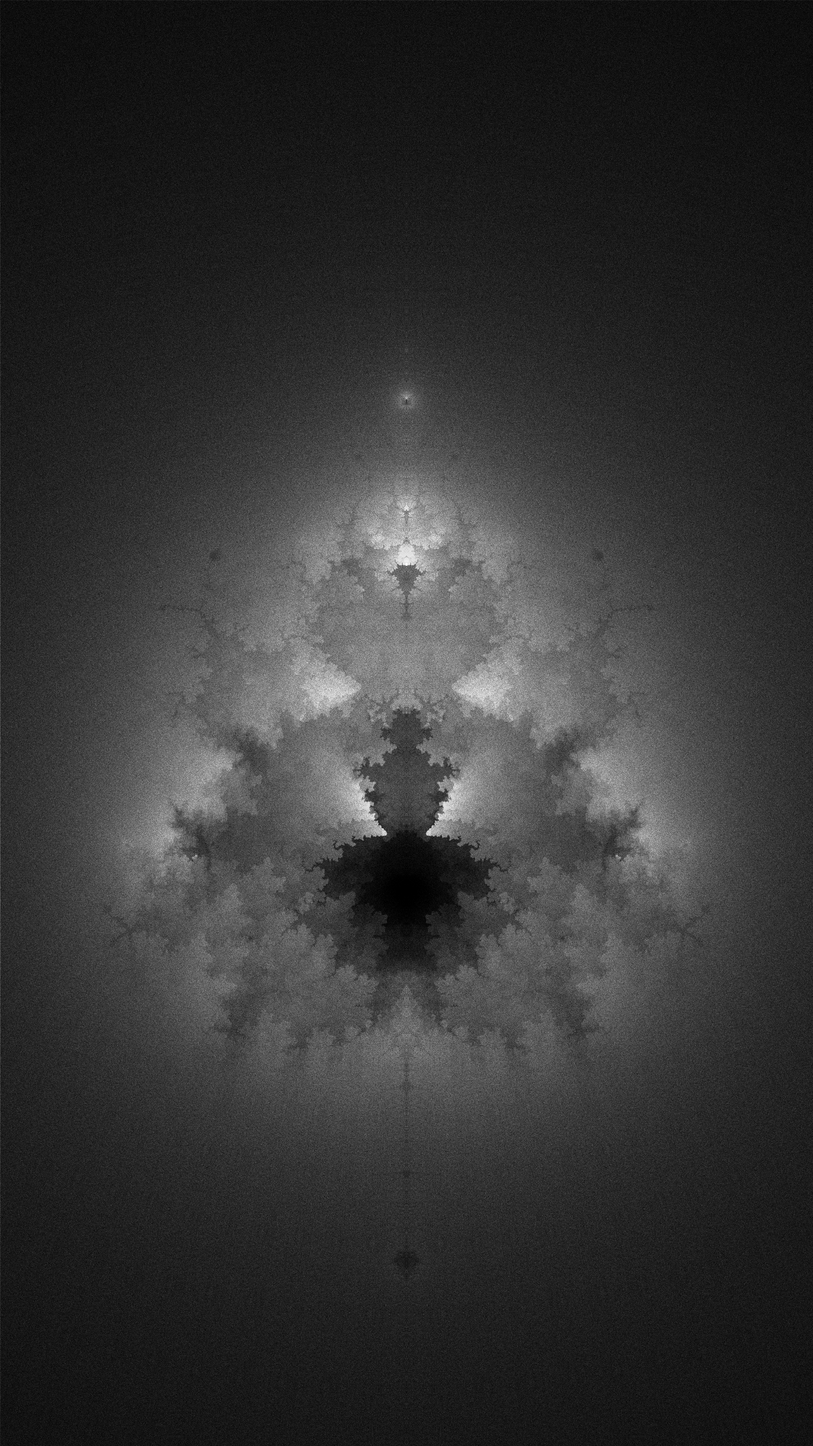
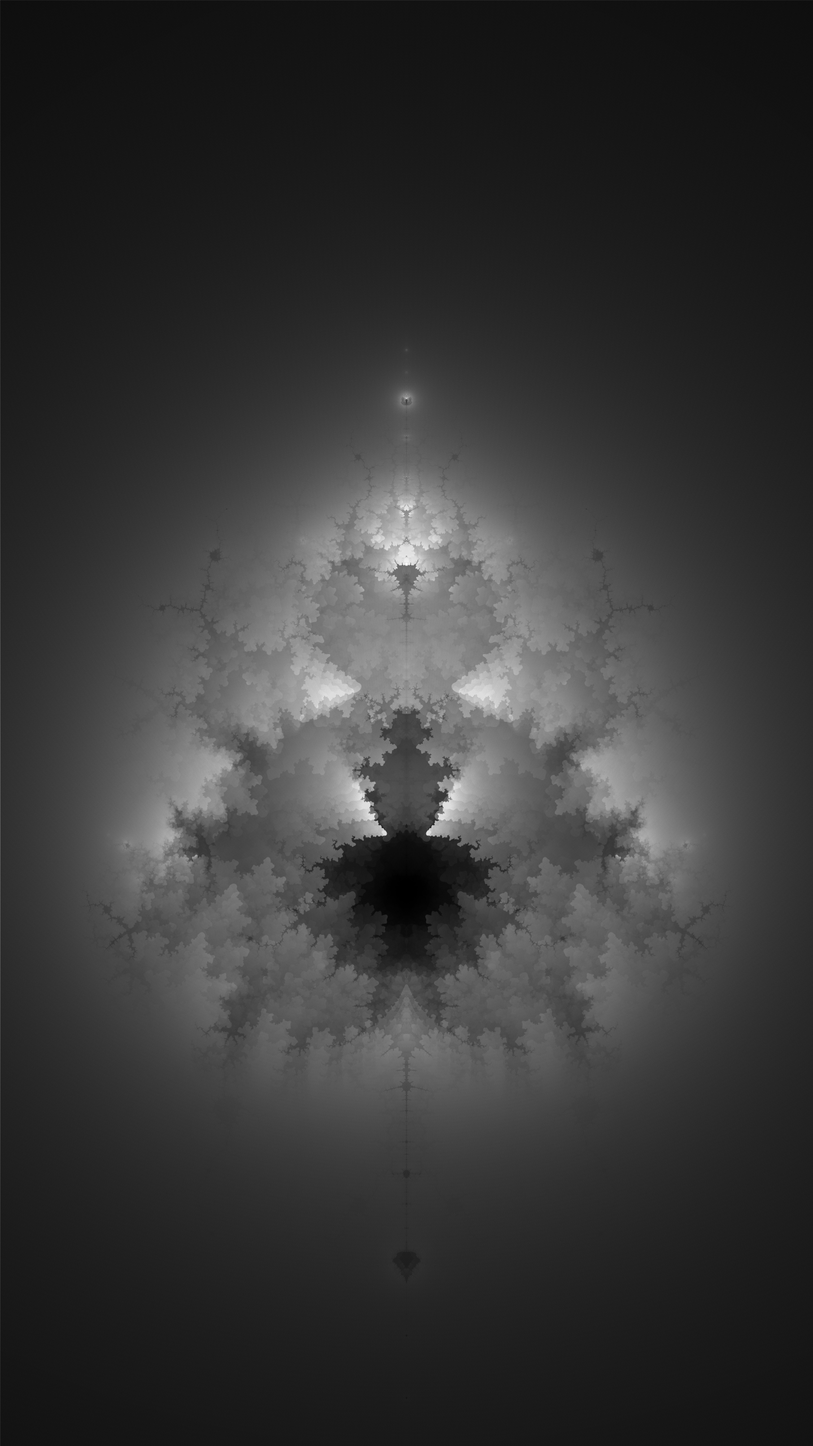
More README

Changed region(s): [[0.125, 0.2812, 0.875, 0.7188], [0.375, 0.6875, 0.625, 0.75]]

diff --git a/buddha_kernel.py b/buddha_kernel.py
@@ -24,7 +24,7 @@ def format_and_save(cpu_canvas, x_dim, y_dim, threads, iters):
 	cpu_canvas /= max(1, np.max(cpu_canvas))
 	cpu_canvas.shape = (y_dim, x_dim)
 	# this just makes the color gradient more visually pleasing
-	cpu_canvas = np.minimum(1.5*cpu_canvas, cpu_canvas*.2+.8)
+	cpu_canvas = np.minimum(2.5*cpu_canvas, cpu_canvas*.2+.8)
 
 	file_name = "images/pycuda_%dx%d_%d_%d.png" % (x_dim, y_dim, iters, threads)
 	print("\n\tSaving %s..." % file_name)
@@ -51,7 +51,7 @@ def generate_image(x_dim, y_dim, iters):
 	threads = 2**7
 	b_s = 2**8
 	dim = 16
-	disc = np.int32(128)
+	disc = np.int32(512)
 	grid_size = np.float32(1 / disc)
 	repeat = 1
 
@@ -203,8 +203,8 @@ def run_test_suite(x_dim, y_dim, iters):
 
 if __name__ == "__main__":
 
-	x_dim = 144*2
-	y_dim = 256*2
-	iters = 100
+	x_dim = 1440
+	y_dim = 2560
+	iters = 20
 	generate_image(x_dim, y_dim, iters)
 	# run_test_suite(x_dim, y_dim, iters)

diff --git a/README.md b/README.md
@@ -14,11 +14,13 @@ This repo was created to host my optimized implemetation of a Buddhabrot generat
 
 ## Usage
 
-	Running the code is as simple as doing `python3 buddha_kernel.py`.
+Running the code is as simple as doing `python3 buddha_kernel.py`.
 
 ## Examples
 
 ### 20 iteration count
+
+The grainy image was generated in 20ms, the fine image was generated in 1840ms.
 
 <p align="center">
 	<img src="/images/example_grainy_20.png" width="30%" />
@@ -27,7 +29,28 @@ This repo was created to host my optimized implemetation of a Buddhabrot generat
 
 ### 100 iteration count
 
+The grainy image was generated in 10ms, the fine image was generated in 2490ms.
+
 <p align="center">
-	<img src="/images/example_grainy_100.png" width="200" />
-	<img src="/images/example_fine_100.png" width="200" />
+	<img src="/images/example_grainy_100.png" width="30%" />
+	<img src="/images/example_fine_100.png" width="30%" />
 </p>
+
+## Performance
+
+This is some example output from my laptop (GTX 1050) and my desktop (GTX 1080Ti)
+
+### GeForce GTX 1050 
+
+	Mask generated in 24.94 seconds
+	Formatting...
+	Total iterations: 2.18473e+10
+	Iterations per pixel: 5926.45
+	Maximum frequency: 68115
+	Minimum frequency: 0
+	Total time: 29.19s
+	Iterations per second: 7.48e+08
+
+### GeForce GTX 1080Ti
+
+	Coming soon
